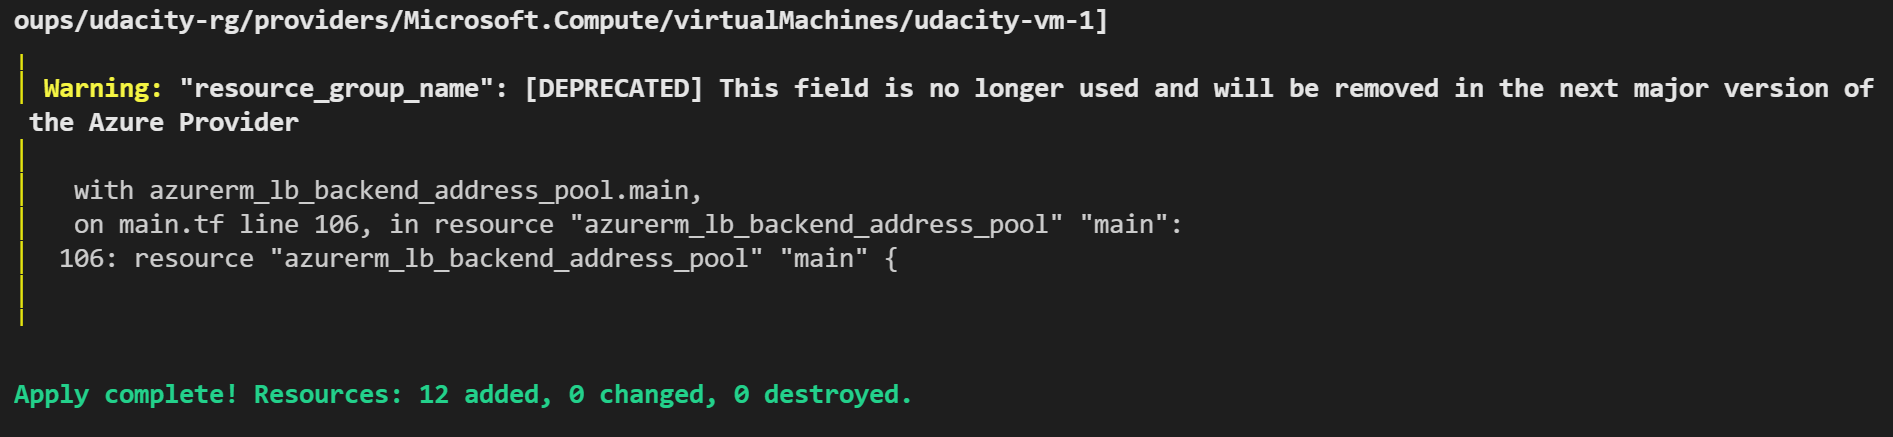
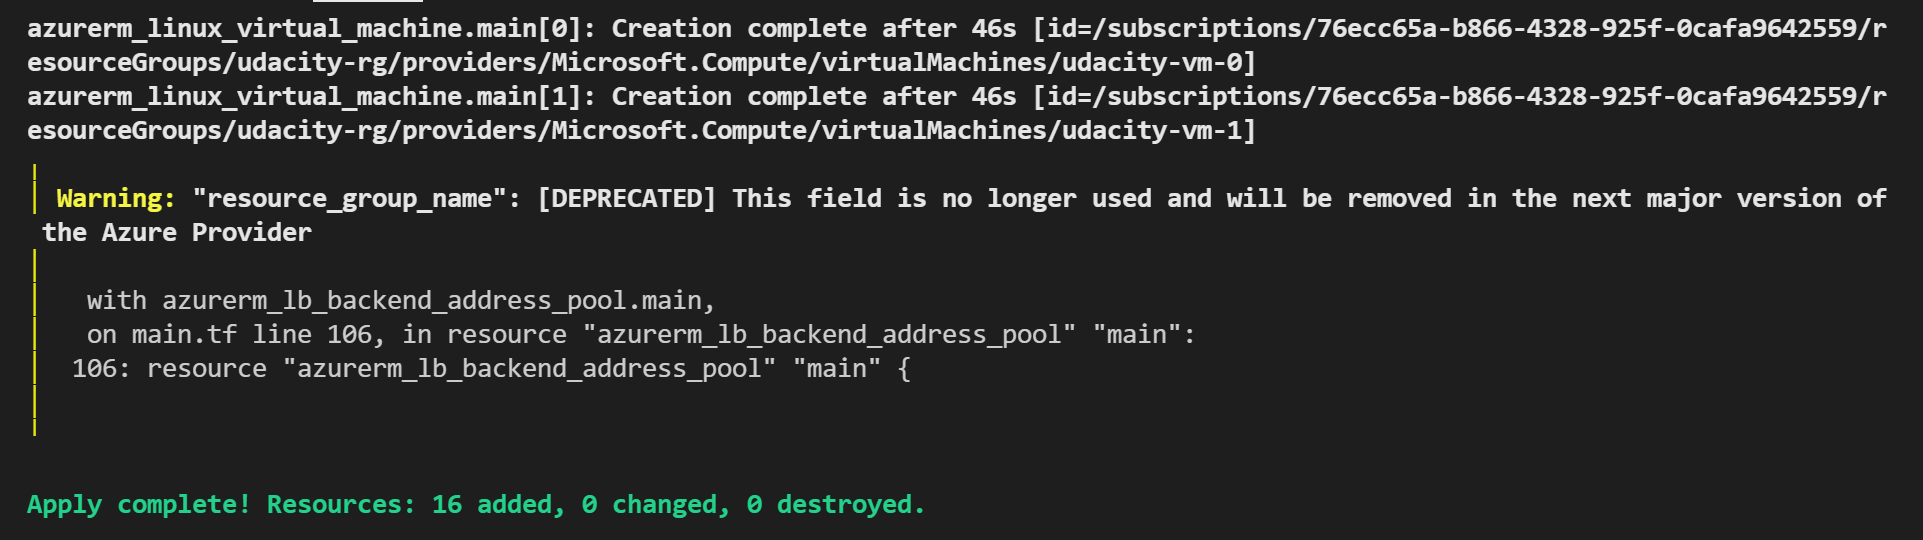
added backend pool association and security group association

Changed region(s): [[0.0, 0.0, 0.9974, 0.2975], [0.0, 0.3272, 0.9974, 0.7437], [0.0, 0.8627, 0.4987, 0.9519]]

diff --git a/README.md b/README.md
@@ -116,75 +116,74 @@ azure-arm: output will be in this color.
     azure-arm: Creating Azure Resource Manager (ARM) client ...
 ==> azure-arm: WARNING: Zone resiliency may not be supported in South Central US, checkout the docs at https://docs.microsoft.com/en-us/azure/availability-zones/
 ==> azure-arm: Creating resource group ...
-==> azure-arm:  -> ResourceGroupName : 'pkr-Resource-Group-4g8pdhdj8x'
+==> azure-arm:  -> ResourceGroupName : 'pkr-Resource-Group-szhuz5shze'
 ==> azure-arm:  -> Location          : 'South Central US'
 ==> azure-arm:  -> Tags              :
 ==> azure-arm:  ->> tag : udacity
 ==> azure-arm: Validating deployment template ...
-==> azure-arm:  -> ResourceGroupName : 'pkr-Resource-Group-4g8pdhdj8x'
-==> azure-arm:  -> DeploymentName    : 'pkrdp4g8pdhdj8x'
+==> azure-arm:  -> ResourceGroupName : 'pkr-Resource-Group-szhuz5shze'
+==> azure-arm:  -> DeploymentName    : 'pkrdpszhuz5shze'
 ==> azure-arm: Deploying deployment template ...
-==> azure-arm:  -> ResourceGroupName : 'pkr-Resource-Group-4g8pdhdj8x'
-==> azure-arm:  -> DeploymentName    : 'pkrdp4g8pdhdj8x'
+==> azure-arm:  -> ResourceGroupName : 'pkr-Resource-Group-szhuz5shze'
+==> azure-arm:  -> DeploymentName    : 'pkrdpszhuz5shze'
 ==> azure-arm:
 ==> azure-arm: Getting the VM's IP address ...
-==> azure-arm:  -> ResourceGroupName   : 'pkr-Resource-Group-4g8pdhdj8x'
-==> azure-arm:  -> PublicIPAddressName : 'pkrip4g8pdhdj8x'
-==> azure-arm:  -> NicName             : 'pkrni4g8pdhdj8x'
+==> azure-arm:  -> ResourceGroupName   : 'pkr-Resource-Group-szhuz5shze'
+==> azure-arm:  -> PublicIPAddressName : 'pkripszhuz5shze'
+==> azure-arm:  -> NicName             : 'pkrniszhuz5shze'
 ==> azure-arm:  -> Network Connection  : 'PublicEndpoint'
-==> azure-arm:  -> IP Address          : '23.100.120.204'
+==> azure-arm:  -> IP Address          : '104.214.92.154'
 ==> azure-arm: Waiting for SSH to become available...
 ==> azure-arm: Connected to SSH!
-==> azure-arm: Provisioning with shell script: C:\Users\jorge\AppData\Local\Temp\packer-shell779550731
+==> azure-arm: Provisioning with shell script: C:\Users\jorge\AppData\Local\Temp\packer-shell006649467
 ==> azure-arm: + echo Hello, World!
 ==> azure-arm: + nohup busybox httpd -f -p 80
 ==> azure-arm: Querying the machine's properties ...
-==> azure-arm:  -> ResourceGroupName : 'pkr-Resource-Group-4g8pdhdj8x'
-==> azure-arm:  -> ComputeName       : 'pkrvm4g8pdhdj8x'
-==> azure-arm:  -> Managed OS Disk   : '/subscriptions/76ecc65a-b866-4328-925f-0cafa9642559/resourceGroups/pkr-Resource-Group-4g8pdhdj8x/providers/Microsoft.Compute/disks/pkros4g8pdhdj8x'
+==> azure-arm:  -> ResourceGroupName : 'pkr-Resource-Group-szhuz5shze'
+==> azure-arm:  -> ComputeName       : 'pkrvmszhuz5shze'
+==> azure-arm:  -> Managed OS Disk   : '/subscriptions/76ecc65a-b866-4328-925f-0cafa9642559/resourceGroups/pkr-Resource-Group-szhuz5shze/providers/Microsoft.Compute/disks/pkrosszhuz5shze'
 ==> azure-arm: Querying the machine's additional disks properties ...
-==> azure-arm:  -> ResourceGroupName : 'pkr-Resource-Group-4g8pdhdj8x'
-==> azure-arm:  -> ComputeName       : 'pkrvm4g8pdhdj8x'
+==> azure-arm:  -> ResourceGroupName : 'pkr-Resource-Group-szhuz5shze'
+==> azure-arm:  -> ComputeName       : 'pkrvmszhuz5shze'
 ==> azure-arm: Powering off machine ...
-==> azure-arm:  -> ResourceGroupName : 'pkr-Resource-Group-4g8pdhdj8x'
-==> azure-arm:  -> ComputeName       : 'pkrvm4g8pdhdj8x'
+==> azure-arm:  -> ResourceGroupName : 'pkr-Resource-Group-szhuz5shze'
+==> azure-arm:  -> ComputeName       : 'pkrvmszhuz5shze'
 ==> azure-arm: Capturing image ...
-==> azure-arm:  -> Compute ResourceGroupName : 'pkr-Resource-Group-4g8pdhdj8x'
-==> azure-arm:  -> Compute Name              : 'pkrvm4g8pdhdj8x'
+==> azure-arm:  -> Compute ResourceGroupName : 'pkr-Resource-Group-szhuz5shze'
+==> azure-arm:  -> Compute Name              : 'pkrvmszhuz5shze'
 ==> azure-arm:  -> Compute Location          : 'South Central US'
 ==> azure-arm:  -> Image ResourceGroupName   : 'udacity-rg'
 ==> azure-arm:  -> Image Name                : 'PackerImage'
 ==> azure-arm:  -> Image Location            : 'South Central US'
 ==> azure-arm: 
 ==> azure-arm: Deleting individual resources ...
-==> azure-arm: Adding to deletion queue -> Microsoft.Compute/virtualMachines : 'pkrvm4g8pdhdj8x'
-==> azure-arm: Adding to deletion queue -> Microsoft.Network/networkInterfaces : 'pkrni4g8pdhdj8x'
-==> azure-arm: Adding to deletion queue -> Microsoft.Network/virtualNetworks : 'pkrvn4g8pdhdj8x'
-==> azure-arm: Adding to deletion queue -> Microsoft.Network/publicIPAddresses : 'pkrip4g8pdhdj8x'
+==> azure-arm: Adding to deletion queue -> Microsoft.Compute/virtualMachines : 'pkrvmszhuz5shze'
+==> azure-arm: Adding to deletion queue -> Microsoft.Network/networkInterfaces : 'pkrniszhuz5shze'
+==> azure-arm: Adding to deletion queue -> Microsoft.Network/virtualNetworks : 'pkrvnszhuz5shze'
+==> azure-arm: Adding to deletion queue -> Microsoft.Network/publicIPAddresses : 'pkripszhuz5shze'
+==> azure-arm: Attempting deletion -> Microsoft.Network/virtualNetworks : 'pkrvnszhuz5shze'
+==> azure-arm: Attempting deletion -> Microsoft.Network/publicIPAddresses : 'pkripszhuz5shze'
 ==> azure-arm: Waiting for deletion of all resources...
-==> azure-arm: Attempting deletion -> Microsoft.Network/virtualNetworks : 'pkrvn4g8pdhdj8x'
-==> azure-arm: Attempting deletion -> Microsoft.Network/publicIPAddresses : 'pkrip4g8pdhdj8x'
-==> azure-arm: Attempting deletion -> Microsoft.Compute/virtualMachines : 'pkrvm4g8pdhdj8x'
-==> azure-arm: Attempting deletion -> Microsoft.Network/networkInterfaces : 'pkrni4g8pdhdj8x'
+==> azure-arm: Attempting deletion -> Microsoft.Network/networkInterfaces : 'pkrniszhuz5shze'
+==> azure-arm: Attempting deletion -> Microsoft.Compute/virtualMachines : 'pkrvmszhuz5shze'
 ==> azure-arm: Error deleting resource. Will retry.
-==> azure-arm: Name: pkrvn4g8pdhdj8x
-==> azure-arm: Error: network.VirtualNetworksClient#Delete: Failure sending request: StatusCode=400 -- Original Error: Code="InUseSubnetCannotBeDeleted" Message="Subnet pkrsn4g8pdhdj8x is in use by /subscriptions/76ecc65a-b866-4328-925f-0cafa9642559/resourceGroups/pkr-Resource-Group-4g8pdhdj8x/providers/Microsoft.Network/networkInterfaces/pkrni4g8pdhdj8x/ipConfigurations/ipconfig and cannot be deleted. In order to delete the subnet, delete all the resources within the subnet. See aka.ms/deletesubnet." Details=[]
+==> azure-arm: Name: pkripszhuz5shze
+==> azure-arm: Error: network.PublicIPAddressesClient#Delete: Failure sending request: StatusCode=400 -- Original Error: Code="PublicIPAddressCannotBeDeleted" Message="Public IP address /subscriptions/76ecc65a-b866-4328-925f-0cafa9642559/resourceGroups/pkr-Resource-Group-szhuz5shze/providers/Microsoft.Network/publicIPAddresses/pkripszhuz5shze can not be deleted since it is still allocated to resource /subscriptions/76ecc65a-b866-4328-925f-0cafa9642559/resourceGroups/pkr-Resource-Group-szhuz5shze/providers/Microsoft.Network/networkInterfaces/pkrniszhuz5shze/ipConfigurations/ipconfig. In order to delete the public IP, disassociate/detach the Public IP address from the resource.  To learn how to do this, see aka.ms/deletepublicip." Details=[]
 ==> azure-arm:
 ==> azure-arm: Error deleting resource. Will retry.
-==> azure-arm: Name: pkrip4g8pdhdj8x
-==> azure-arm: Error: network.PublicIPAddressesClient#Delete: Failure sending request: StatusCode=400 -- Original Error: Code="PublicIPAddressCannotBeDeleted" Message="Public IP address /subscriptions/76ecc65a-b866-4328-925f-0cafa9642559/resourceGroups/pkr-Resource-Group-4g8pdhdj8x/providers/Microsoft.Network/publicIPAddresses/pkrip4g8pdhdj8x can not be deleted since it is still allocated to resource /subscriptions/76ecc65a-b866-4328-925f-0cafa9642559/resourceGroups/pkr-Resource-Group-4g8pdhdj8x/providers/Microsoft.Network/networkInterfaces/pkrni4g8pdhdj8x/ipConfigurations/ipconfig. In order to delete the public 
-IP, disassociate/detach the Public IP address from the resource.  To learn how to do this, see aka.ms/deletepublicip." Details=[]
+==> azure-arm: Name: pkrvnszhuz5shze
+==> azure-arm: Error: network.VirtualNetworksClient#Delete: Failure sending request: StatusCode=400 -- Original Error: Code="InUseSubnetCannotBeDeleted" Message="Subnet pkrsnszhuz5shze is in use by /subscriptions/76ecc65a-b866-4328-925f-0cafa9642559/resourceGroups/pkr-Resource-Group-szhuz5shze/providers/Microsoft.Network/networkInterfaces/pkrniszhuz5shze/ipConfigurations/ipconfig and cannot be deleted. In order to delete the subnet, delete all the resources within the subnet. See aka.ms/deletesubnet." Details=[]
 ==> azure-arm:
-==> azure-arm: Attempting deletion -> Microsoft.Network/virtualNetworks : 'pkrvn4g8pdhdj8x'
-==> azure-arm: Attempting deletion -> Microsoft.Network/publicIPAddresses : 'pkrip4g8pdhdj8x'
-==> azure-arm:  Deleting -> Microsoft.Compute/disks : '/subscriptions/76ecc65a-b866-4328-925f-0cafa9642559/resourceGroups/pkr-Resource-Group-4g8pdhdj8x/providers/Microsoft.Compute/disks/pkros4g8pdhdj8x'
-==> azure-arm: Removing the created Deployment object: 'pkrdp4g8pdhdj8x'
+==> azure-arm: Attempting deletion -> Microsoft.Network/publicIPAddresses : 'pkripszhuz5shze'
+==> azure-arm: Attempting deletion -> Microsoft.Network/virtualNetworks : 'pkrvnszhuz5shze'
+==> azure-arm:  Deleting -> Microsoft.Compute/disks : '/subscriptions/76ecc65a-b866-4328-925f-0cafa9642559/resourceGroups/pkr-Resource-Group-szhuz5shze/providers/Microsoft.Compute/disks/pkrosszhuz5shze'
+==> azure-arm: Removing the created Deployment object: 'pkrdpszhuz5shze'
 ==> azure-arm: 
 ==> azure-arm: Cleanup requested, deleting resource group ...
 ==> azure-arm: Resource group has been deleted.
-Build 'azure-arm' finished after 9 minutes 22 seconds.
+Build 'azure-arm' finished after 5 minutes 19 seconds.
 
-==> Wait completed after 9 minutes 22 seconds
+==> Wait completed after 5 minutes 19 seconds
 
 ==> Builds finished. The artifacts of successful builds are:
 --> azure-arm: Azure.ResourceManagement.VMImage:
@@ -192,7 +191,7 @@ Build 'azure-arm' finished after 9 minutes 22 seconds.
 OSType: Linux
 ManagedImageResourceGroupName: udacity-rg
 ManagedImageName: PackerImage
-ManagedImageId: /subscriptions/76ecc65a-b866-4328-925f-0cafa9642559/resourceGroups/udacity-rg/providers/Microsoft.Compute/images/PackerImage
+ManagedImageId: /subscriptions/76ecc65a-b866-4328-925f-0cafa9642559/resourceGroups/udacity-rg/providers/Microsoft.Compute/images/Packages/PackerImage
 ManagedImageLocation: South Central US
 ```
 
@@ -237,41 +236,49 @@ To create our infrastructure in Azure we have to run the following command:
 terraform apply
 ```
 
-While the infrastructure is deploying, we should get output similar to this:
+While the infrastructure is deploying, we should get an output similar to this:
 
 ```bash
 azurerm_virtual_network.main: Creating...
 azurerm_public_ip.main: Creating...
-azurerm_availability_set.main: Creating...
 azurerm_managed_disk.main: Creating...
+azurerm_availability_set.main: Creating...
 azurerm_network_security_group.main: Creating...
 azurerm_availability_set.main: Creation complete after 1s [id=/subscriptions/76ecc65a-b866-4328-925f-0cafa9642559/resourceGroups/udacity-rg/providers/Microsoft.Compute/availabilitySets/udacity-aset]
-azurerm_public_ip.main: Creation complete after 3s [id=/subscriptions/76ecc65a-b866-4328-925f-0cafa9642559/resourceGroups/udacity-rg/providers/Microsoft.Network/publicIPAddresses/udacity-ip]
+azurerm_public_ip.main: Creation complete after 2s [id=/subscriptions/76ecc65a-b866-4328-925f-0cafa9642559/resourceGroups/udacity-rg/providers/Microsoft.Network/publicIPAddresses/udacity-ip]
 azurerm_lb.main: Creating...
-azurerm_lb.main: Creation complete after 0s [id=/subscriptions/76ecc65a-b866-4328-925f-0cafa9642559/resourceGroups/udacity-rg/providers/Microsoft.Network/loadBalancers/udacity-lb]
+azurerm_lb.main: Creation complete after 1s [id=/subscriptions/76ecc65a-b866-4328-925f-0cafa9642559/resourceGroups/udacity-rg/providers/Microsoft.Network/loadBalancers/udacity-lb]
 azurerm_lb_backend_address_pool.main: Creating...
+azurerm_managed_disk.main: Creation complete after 3s [id=/subscriptions/76ecc65a-b866-4328-925f-0cafa9642559/resourceGroups/udacity-rg/providers/Microsoft.Compute/disks/udacity-md]
 azurerm_lb_backend_address_pool.main: Creation complete after 1s [id=/subscriptions/76ecc65a-b866-4328-925f-0cafa9642559/resourceGroups/udacity-rg/providers/Microsoft.Network/loadBalancers/udacity-lb/backendAddressPools/udacity-bap]
-azurerm_virtual_network.main: Creation complete after 5s [id=/subscriptions/76ecc65a-b866-4328-925f-0cafa9642559/resourceGroups/udacity-rg/providers/Microsoft.Network/virtualNetworks/udacity-network]
+azurerm_virtual_network.main: Creation complete after 4s [id=/subscriptions/76ecc65a-b866-4328-925f-0cafa9642559/resourceGroups/udacity-rg/providers/Microsoft.Network/virtualNetworks/udacity-network]
+azurerm_network_security_group.main: Creation complete after 4s [id=/subscriptions/76ecc65a-b866-4328-925f-0cafa9642559/resourceGroups/udacity-rg/providers/Microsoft.Network/networkSecurityGroups/udacity-nsg]
 azurerm_subnet.main: Creating...
-azurerm_managed_disk.main: Creation complete after 9s [id=/subscriptions/76ecc65a-b866-4328-925f-0cafa9642559/resourceGroups/udacity-rg/providers/Microsoft.Compute/disks/udacity-md]
 azurerm_subnet.main: Creation complete after 4s [id=/subscriptions/76ecc65a-b866-4328-925f-0cafa9642559/resourceGroups/udacity-rg/providers/Microsoft.Network/virtualNetworks/udacity-network/subnets/udacity-subnet]
 azurerm_network_interface.main[1]: Creating...
 azurerm_network_interface.main[0]: Creating...
-azurerm_network_interface.main[1]: Creation complete after 1s [id=/subscriptions/76ecc65a-b866-4328-925f-0cafa9642559/resourceGroups/udacity-rg/providers/Microsoft.Network/networkInterfaces/udacity-nic-1]
-azurerm_network_interface.main[0]: Creation complete after 1s [id=/subscriptions/76ecc65a-b866-4328-925f-0cafa9642559/resourceGroups/udacity-rg/providers/Microsoft.Network/networkInterfaces/udacity-nic-0]
+azurerm_network_interface.main[0]: Creation complete after 3s [id=/subscriptions/76ecc65a-b866-4328-925f-0cafa9642559/resourceGroups/udacity-rg/providers/Microsoft.Network/networkInterfaces/udacity-nic-0]
+azurerm_network_interface.main[1]: Creation complete after 4s [id=/subscriptions/76ecc65a-b866-4328-925f-0cafa9642559/resourceGroups/udacity-rg/providers/Microsoft.Network/networkInterfaces/udacity-nic-1]
 azurerm_linux_virtual_machine.main[0]: Creating...
 azurerm_linux_virtual_machine.main[1]: Creating...
-azurerm_network_security_group.main: Creation complete after 10s [id=/subscriptions/76ecc65a-b866-4328-925f-0cafa9642559/resourceGroups/udacity-rg/providers/Microsoft.Network/networkSecurityGroups/udacity-nsg]
+azurerm_network_interface_backend_address_pool_association.main[1]: Creating...
+azurerm_network_interface_security_group_association.main[1]: Creating...
+azurerm_network_interface_backend_address_pool_association.main[0]: Creating...
+azurerm_network_interface_security_group_association.main[0]: Creating...
+azurerm_network_interface_backend_address_pool_association.main[0]: Creation complete after 1s [id=/subscriptions/76ecc65a-b866-4328-925f-0cafa9642559/resourceGroups/udacity-rg/providers/Microsoft.Network/networkInterfaces/udacity-nic-0/ipConfigurations/udacity-ipconfig|/subscriptions/76ecc65a-b866-4328-925f-0cafa9642559/resourceGroups/udacity-rg/providers/Microsoft.Network/loadBalancers/udacity-lb/backendAddressPools/udacity-bap]
+azurerm_network_interface_security_group_association.main[0]: Creation complete after 1s [id=/subscriptions/76ecc65a-b866-4328-925f-0cafa9642559/resourceGroups/udacity-rg/providers/Microsoft.Network/networkInterfaces/udacity-nic-0|/subscriptions/76ecc65a-b866-4328-925f-0cafa9642559/resourceGroups/udacity-rg/providers/Microsoft.Network/networkSecurityGroups/udacity-nsg] 
+azurerm_network_interface_backend_address_pool_association.main[1]: Creation complete after 3s [id=/subscriptions/76ecc65a-b866-4328-925f-0cafa9642559/resourceGroups/udacity-rg/providers/Microsoft.Network/networkInterfaces/udacity-nic-1/ipConfigurations/udacity-ipconfig|/subscriptions/76ecc65a-b866-4328-925f-0cafa9642559/resourceGroups/udacity-rg/providers/Microsoft.Network/loadBalancers/udacity-lb/backendAddressPools/udacity-bap]
+azurerm_network_interface_security_group_association.main[1]: Creation complete after 3s [id=/subscriptions/76ecc65a-b866-4328-925f-0cafa9642559/resourceGroups/udacity-rg/providers/Microsoft.Network/networkInterfaces/udacity-nic-1|/subscriptions/76ecc65a-b866-4328-925f-0cafa9642559/resourceGroups/udacity-rg/providers/Microsoft.Network/networkSecurityGroups/udacity-nsg] 
 azurerm_linux_virtual_machine.main[0]: Still creating... [10s elapsed]
 azurerm_linux_virtual_machine.main[1]: Still creating... [10s elapsed]
-azurerm_linux_virtual_machine.main[1]: Still creating... [20s elapsed]
 azurerm_linux_virtual_machine.main[0]: Still creating... [20s elapsed]
+azurerm_linux_virtual_machine.main[1]: Still creating... [20s elapsed]
 azurerm_linux_virtual_machine.main[0]: Still creating... [30s elapsed]
 azurerm_linux_virtual_machine.main[1]: Still creating... [30s elapsed]
 azurerm_linux_virtual_machine.main[1]: Still creating... [40s elapsed]
 azurerm_linux_virtual_machine.main[0]: Still creating... [40s elapsed]
-oups/udacity-rg/providers/Microsoft.Compute/virtualMachines/udacity-vm-1]                                                            oups/udacity-rg/providers/Microsoft.Compute/virtualMachines/udacity-vm-0]
-╷                                                                                                                                    oups/udacity-rg/providers/Microsoft.Compute/virtualMachines/udacity-vm-1]
+azurerm_linux_virtual_machine.main[0]: Creation complete after 46s [id=/subscriptions/76ecc65a-b866-4328-925f-0cafa9642559/resourceGroups/udacity-rg/providers/Microsoft.Compute/virtualMachines/udacity-vm-0]
+azurerm_linux_virtual_machine.main[1]: Creation complete after 46s [id=/subscriptions/76ecc65a-b866-4328-925f-0cafa9642559/resourceGroups/udacity-rg/providers/Microsoft.Compute/virtualMachines/udacity-vm-1]
 ```
 
 After we have deployed our infrastructure, we should get a confirmation message from Terraform
